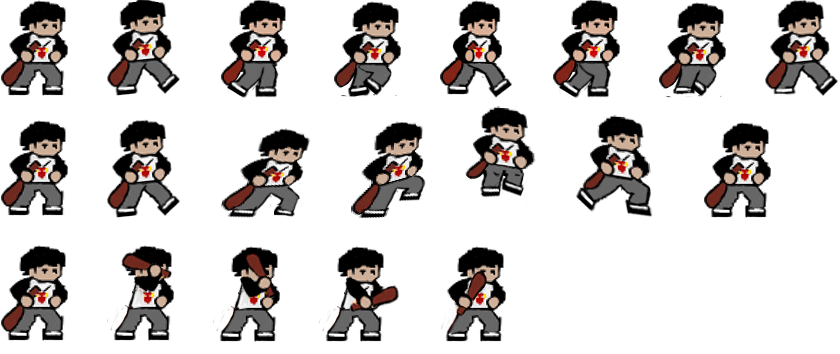
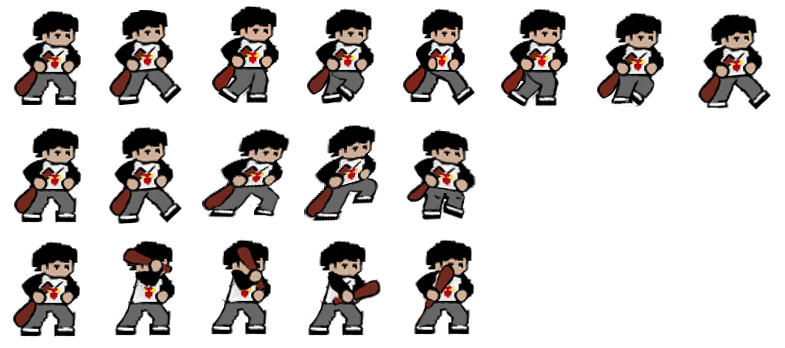
alpha build

diff --git a/Platformer v0.3/Player.cpp b/Platformer v0.3/Player.cpp
@@ -149,11 +149,11 @@ void Player::Awake()
 	auto animAttack = new Animation(false, 0.1f, entityId);
 	animAttack->SetDrawableSpriteComponent(drawableSpriteComponent);
 
-	animAttack->AddFrame(sf::IntRect(FRAME_WIDTH * 0, FRAME_HEIGHT * 2 + 20.f, FRAME_WIDTH, FRAME_HEIGHT));
-	animAttack->AddFrame(sf::IntRect(FRAME_WIDTH * 1, FRAME_HEIGHT * 2 + 20.f, FRAME_WIDTH, FRAME_HEIGHT));
-	animAttack->AddFrame(sf::IntRect(FRAME_WIDTH * 2, FRAME_HEIGHT * 2 + 20.f, FRAME_WIDTH, FRAME_HEIGHT));
-	animAttack->AddFrame(sf::IntRect(FRAME_WIDTH * 3, FRAME_HEIGHT * 2 + 20.f, FRAME_WIDTH, FRAME_HEIGHT));
-	animAttack->AddFrame(sf::IntRect(FRAME_WIDTH * 4, FRAME_HEIGHT * 2 + 20.f, FRAME_WIDTH, FRAME_HEIGHT));
+	animAttack->AddFrame(sf::IntRect(FRAME_WIDTH * 0, FRAME_HEIGHT * 2, FRAME_WIDTH, FRAME_HEIGHT));
+	animAttack->AddFrame(sf::IntRect(FRAME_WIDTH * 1, FRAME_HEIGHT * 2, FRAME_WIDTH, FRAME_HEIGHT));
+	animAttack->AddFrame(sf::IntRect(FRAME_WIDTH * 2, FRAME_HEIGHT * 2, FRAME_WIDTH, FRAME_HEIGHT));
+	animAttack->AddFrame(sf::IntRect(FRAME_WIDTH * 3, FRAME_HEIGHT * 2, FRAME_WIDTH, FRAME_HEIGHT));
+	animAttack->AddFrame(sf::IntRect(FRAME_WIDTH * 4, FRAME_HEIGHT * 2, FRAME_WIDTH, FRAME_HEIGHT));
 
 	animator->AddState<AttackPlayerAnimState>(AnimationType::Attack, animAttack);
 }

diff --git a/Platformer v0.3/DataTypes.h b/Platformer v0.3/DataTypes.h
@@ -21,13 +21,13 @@ typedef unsigned int ListenerId;
 typedef std::string ComponentType;
 typedef std::string Filename;
 
-//#define WINDOW_WIDTH 1366
-//#define WINDOW_HEIGHT 768
-#define WINDOW_WIDTH 1920
-#define WINDOW_HEIGHT 1080
+#define WINDOW_WIDTH 1366
+#define WINDOW_HEIGHT 768
+//#define WINDOW_WIDTH 1920
+//#define WINDOW_HEIGHT 1080
 
-//#define FIXED_DELTA_TIME 1.f / 20.f;
-#define FIXED_DELTA_TIME 1.f / 45.f;
+#define FIXED_DELTA_TIME 1.f / 20.f;
+//#define FIXED_DELTA_TIME 1.f / 45.f;
 
 // 1 meter (box2d) is more or less 64 pixels (sfml)
 #define RATIO 30.0f

diff --git a/Platformer v0.3/LevelFinisher.h b/Platformer v0.3/LevelFinisher.h
@@ -21,6 +21,7 @@ public:
 		drawableTextComponent->Disable();
 		drawableTextComponent->SetFont(AssetAllocator::GetFont(AssetAllocator::GetPath() + fontFilename));
 		drawableTextComponent->SetText("    Press E    \nTo finish level");
+		drawableTextComponent->SetFillColor(sf::Color::Red);
 		drawableTextComponent->SetPositionOffset(textOffset);
 
 

diff --git a/Platformer v0.3/PlayerMovement.h b/Platformer v0.3/PlayerMovement.h
@@ -78,8 +78,10 @@ private:
 	JumpSensor* jumpSensor;
 
 	float velocity;
-	float sprintVelocity = 1000.f;
-	float normalVelocity = 500.f;
+	//float sprintVelocity = 1000.f;
+	//float normalVelocity = 500.f;
+	float sprintVelocity = 600.f;
+	float normalVelocity = 350.f;
 
 	float jumpTime = 0.f;
 	float jumpMaxTime = 0.5f;

diff --git a/Platformer v0.3/Enemy.h b/Platformer v0.3/Enemy.h
@@ -119,7 +119,8 @@ private:
 	float movingTime = 1.5f;
 	float idleTime = 1.f;
 
-	float enemyVelocity = 500.f;
+	//float enemyVelocity = 500.f;
+	float enemyVelocity = 350.f;
 
 	float curentTime = 0.f;
 	FaceDirection faceDirection = FaceDirection::Right;

diff --git a/Platformer v0.3/Player.h b/Platformer v0.3/Player.h
@@ -97,8 +97,8 @@ private:
 
 	DrawLayer drawLayer = 100;
 
-	const short FRAME_WIDTH = 105;
-	const short FRAME_HEIGHT = 110;
+	const short FRAME_WIDTH = 785 / 8;
+	const short FRAME_HEIGHT = 348 / 3;
 
 	sf::Vector2f attackSensorOffset = { -50.f, 0.f };
 

diff --git a/Platformer v0.3/Enemy.cpp b/Platformer v0.3/Enemy.cpp
@@ -31,6 +31,7 @@ void Enemy::Awake()
 	b2FixtureDef boxFixtureDef;
 	boxFixtureDef.shape = &boxShape;
 	boxFixtureDef.density = 1;
+	boxFixtureDef.friction = 1;
 	boxFixtureDef.filter.categoryBits = (1 << ((uint16)CollisionLayers::Enemy));
 
 
